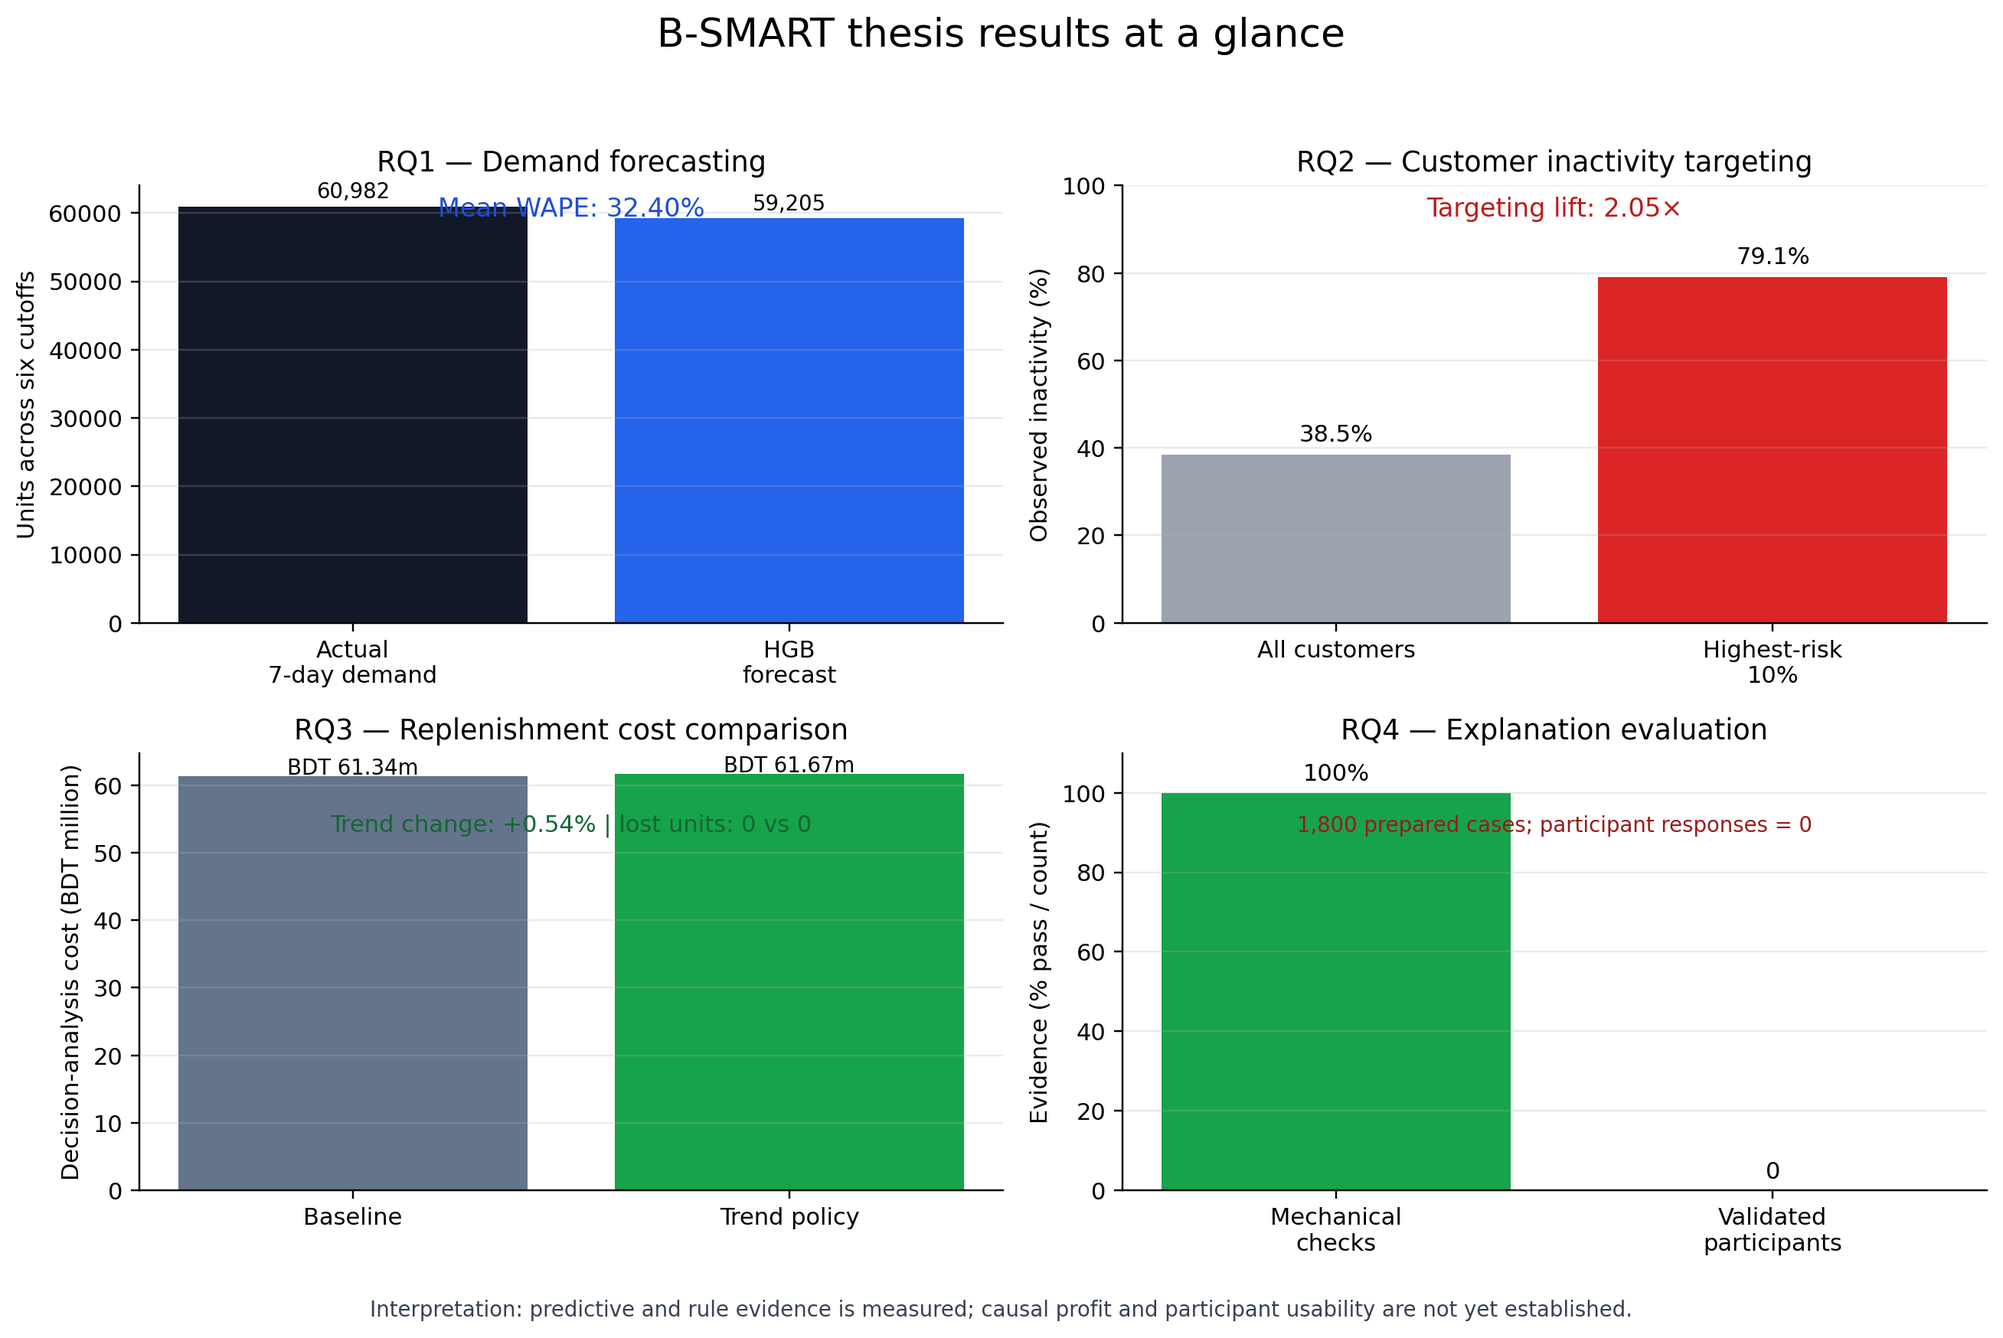
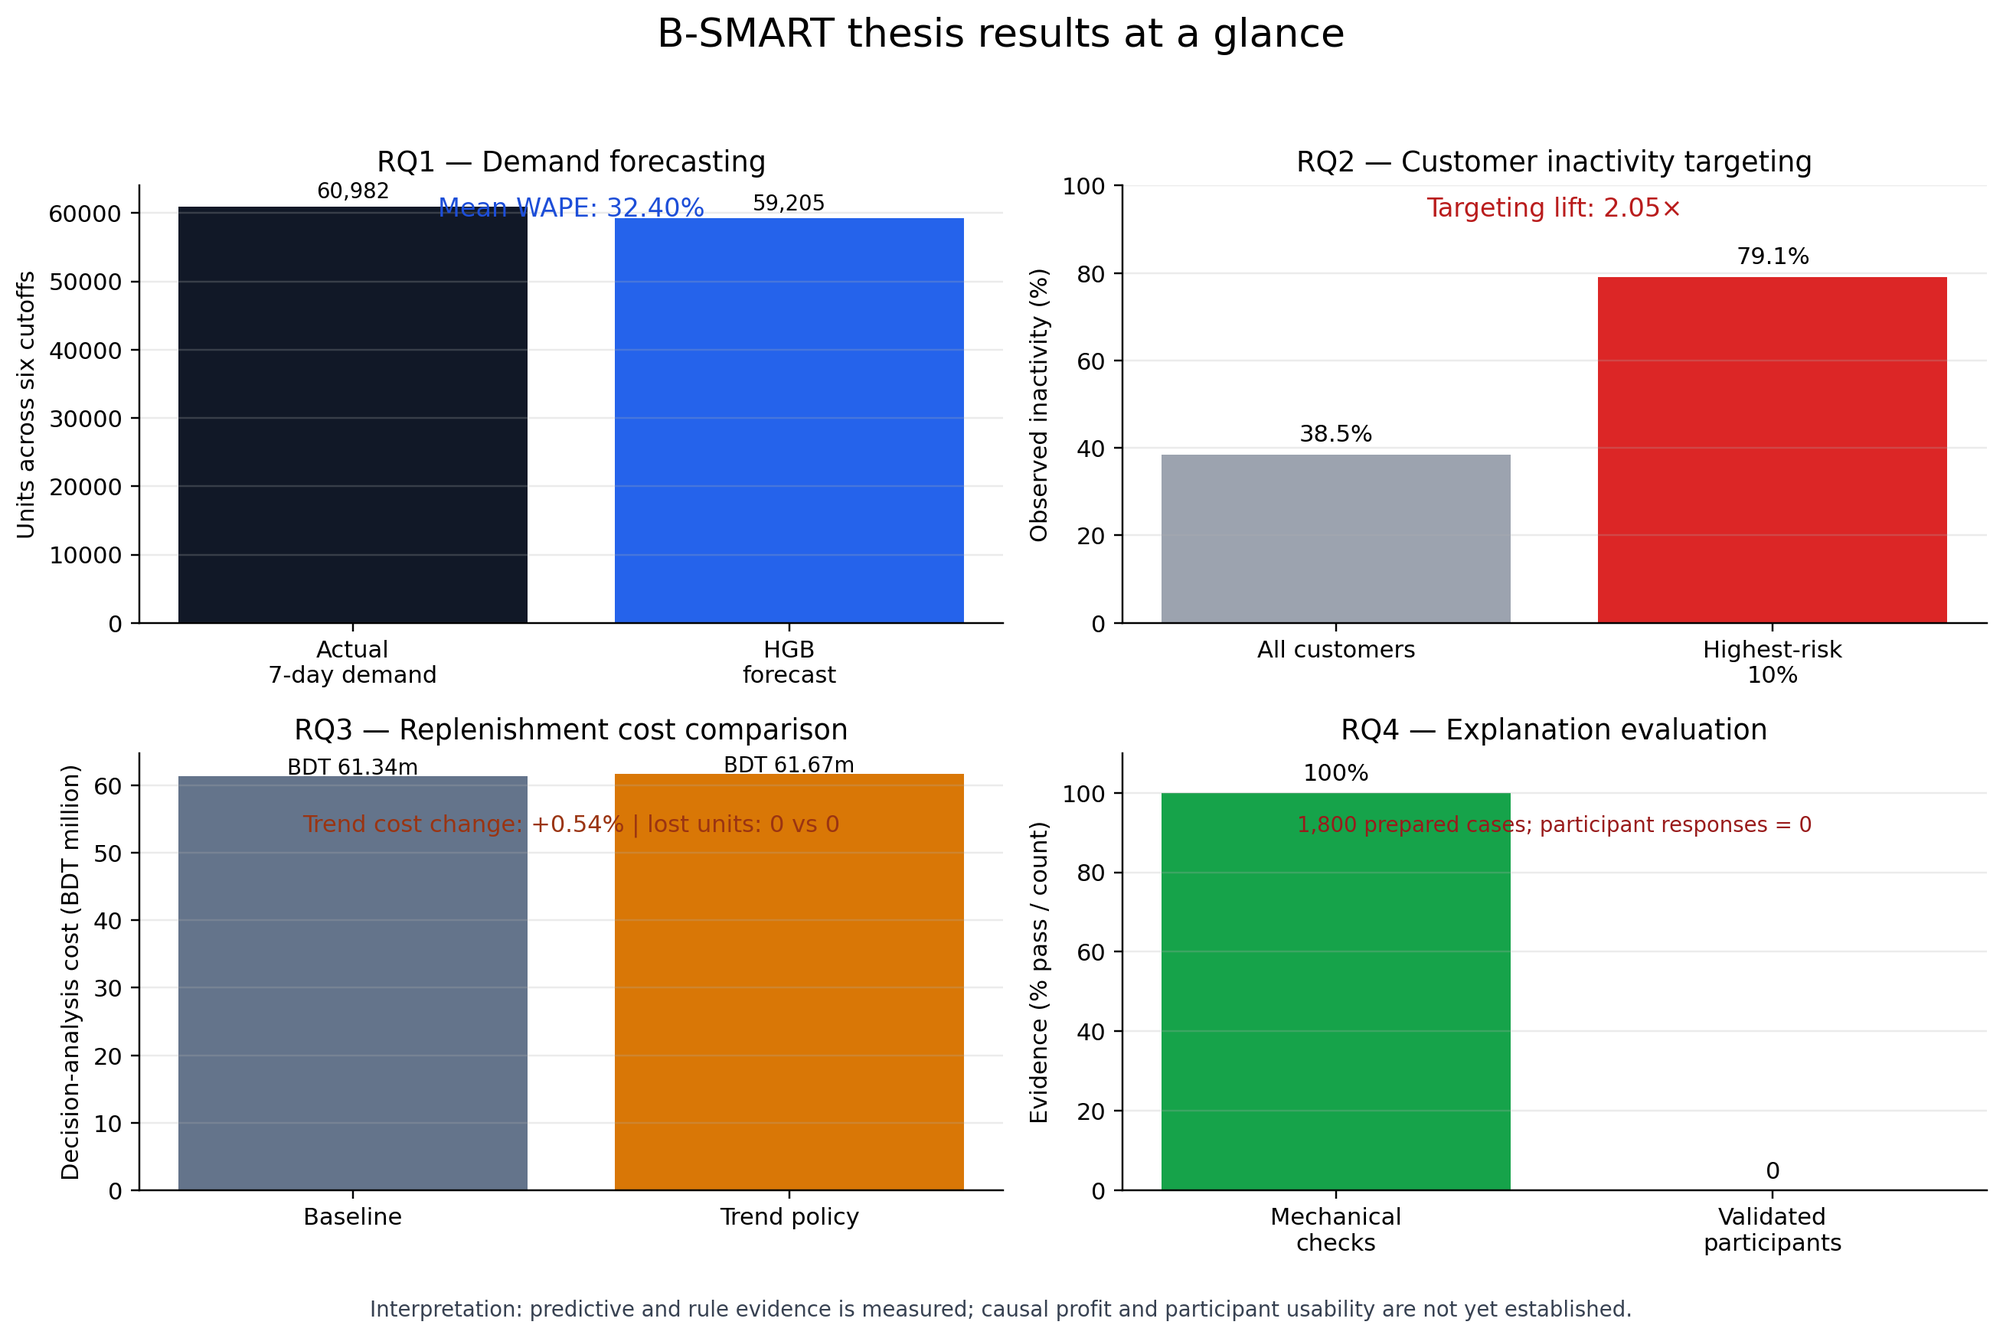
Simplify thesis result figures and explain design

Changed region(s): [[0.1548, 0.5561, 0.4954, 0.8959]]

diff --git a/research/experiments/run_multidate_business_impact.py b/research/experiments/run_multidate_business_impact.py
@@ -143,6 +143,21 @@ def run_rq1(panel_path: Path, out: Path, figures: Path) -> pd.DataFrame:
     axes[1].grid(axis="y", alpha=0.25)
     axes[1].legend(frameon=False)
     savefig(fig, figures / "rq1_multidate_actual_vs_predicted.png")
+
+    # Reader-facing figure: one outcome line and one model line. The
+    # baseline comparison remains in the table/CSV, while this graph answers
+    # the first visual question directly: did the forecast follow reality?
+    fig, ax = plt.subplots(figsize=(10, 4.6))
+    ax.plot(x, series["actual"], marker="o", linewidth=3, color="#111827", label="Actual next-7-day demand")
+    ax.plot(x, series["hist_gradient_boosting"], marker="o", linewidth=2.5, color="#2563eb", label="HGB forecast")
+    ax.set_title("RQ1: What actually happened versus the forecast?")
+    ax.set_ylabel("Units")
+    ax.set_xlabel("Forecast cutoff")
+    ax.set_xticks(x, series["cutoff"], rotation=25, ha="right")
+    ax.grid(axis="y", alpha=0.25)
+    ax.legend(frameon=False)
+    ax.text(0.99, 0.97, f"Mean WAPE: {metrics.loc[metrics['model'].eq('hist_gradient_boosting'), 'WAPE'].mean() * 100:.2f}%", transform=ax.transAxes, ha="right", va="top", color="#1d4ed8", fontsize=11)
+    savefig(fig, figures / "rq1_simple_actual_vs_predicted.png")
     return metrics
 
 
@@ -199,6 +214,19 @@ def run_rq2(snapshot_path: Path, out: Path, figures: Path) -> pd.DataFrame:
     for ax in axes:
         ax.grid(axis="y", alpha=0.25)
     savefig(fig, figures / "rq2_multidate_inactivity.png")
+
+    fig, ax = plt.subplots(figsize=(8, 4.6))
+    overall = metrics["actual_inactivity_rate"].mean() * 100
+    top = metrics["top_decile_observed_inactivity_rate"].mean() * 100
+    bars = ax.bar(["All customers", "Highest-risk 10%"], [overall, top], color=["#9ca3af", "#dc2626"])
+    ax.set_ylim(0, 100)
+    ax.set_ylabel("Observed inactivity (%)")
+    ax.set_title("RQ2: Why targeting the highest-risk 10% helps")
+    ax.grid(axis="y", alpha=0.25)
+    ax.text(0.5, 0.96, f"Targeting lift: {top / overall:.2f}×", transform=ax.transAxes, ha="center", va="top", color="#b91c1c", fontsize=12)
+    for bar, value in zip(bars, [overall, top]):
+        ax.text(bar.get_x() + bar.get_width() / 2, value + 3, f"{value:.1f}%", ha="center", fontsize=10)
+    savefig(fig, figures / "rq2_simple_targeting_lift.png")
     return metrics
 
 
@@ -292,6 +320,20 @@ def run_rq3(data_dir: Path, out: Path, figures: Path) -> pd.DataFrame:
     for ax in axes:
         ax.grid(axis="y", alpha=0.25)
     savefig(fig, figures / "rq3_multidate_strategy_impact.png")
+
+    fig, ax = plt.subplots(figsize=(8, 4.6))
+    baseline_total = metrics["baseline_total_cost_bdt"].sum() / 1_000_000
+    trend_total = metrics["trend_total_cost_bdt"].sum() / 1_000_000
+    bars = ax.bar(["Baseline", "Trend policy"], [baseline_total, trend_total], color=["#64748b", "#d97706"])
+    ax.set_ylabel("Decision-analysis cost (BDT million)")
+    ax.set_title("RQ3: What did the historical backtest show?")
+    ax.set_ylim(min(baseline_total, trend_total) - 1.0, max(baseline_total, trend_total) + 1.0)
+    ax.grid(axis="y", alpha=0.25)
+    change = (trend_total / baseline_total - 1) * 100
+    ax.text(0.5, 0.96, f"Trend cost change: {change:+.2f}% | lost units: 0 vs 0", transform=ax.transAxes, ha="center", va="top", color="#9a3412", fontsize=10)
+    for bar, value in zip(bars, [baseline_total, trend_total]):
+        ax.text(bar.get_x() + bar.get_width() / 2, value + 0.12, f"BDT {value:.2f}m", ha="center", fontsize=10)
+    savefig(fig, figures / "rq3_simple_cost_tradeoff.png")
     return metrics
 
 
@@ -308,7 +350,7 @@ def run(data_dir: Path, out: Path, figures: Path) -> None:
         "rq3_cutoffs": rq3["cutoff"].tolist(),
         "rq3_cost_function": "purchase_cost + 0.02 * purchase_cost * average_stock + lost_units * max(retail_price - purchase_cost, 0)",
         "rq3_assumption_note": "Historical backtest uses observed sales after each cutoff; it is a decision-analysis estimate, not audited accounting profit or causal business impact.",
-        "outputs": ["rq1_multidate_metrics.csv", "rq2_multidate_metrics.csv", "rq3_multidate_business_impact.csv", "rq1_multidate_actual_vs_predicted.png", "rq2_multidate_inactivity.png", "rq3_multidate_strategy_impact.png"],
+        "outputs": ["rq1_multidate_metrics.csv", "rq2_multidate_metrics.csv", "rq3_multidate_business_impact.csv", "rq1_multidate_actual_vs_predicted.png", "rq1_simple_actual_vs_predicted.png", "rq2_multidate_inactivity.png", "rq2_simple_targeting_lift.png", "rq3_multidate_strategy_impact.png", "rq3_simple_cost_tradeoff.png"],
         "input_files": {
             "rq1_daily_shop_category.csv": sha256(data_dir / "rq1_daily_shop_category.csv"),
             "rq2_customer_snapshots_90d.csv": sha256(data_dir / "rq2_customer_snapshots_90d.csv"),

diff --git a/thesis_report/main.tex b/thesis_report/main.tex
@@ -2689,6 +2689,17 @@ RQ4 & 1,800 prepared explanation cases; no participant linkage or consent record
 \end{tabularx}
 \end{table}
 
+These checks directly determine what a defensible result can mean. The large
+zero-sales share makes percentage error unstable at the individual series
+level, so RQ1 reports a seven-day aggregate view alongside the exposure-aware
+SKU diagnostic. Repeated customer snapshots make random splitting unsafe, so
+RQ2 uses chronological rolling validation and evaluates the limited top-risk
+list. The reconstructed inventory is stock-rich, so RQ3 must report cost and
+lost units separately rather than calling a zero-stockout result a guaranteed
+profit. Finally, the prepared RQ4 cases can establish rule consistency but not
+human usability; that is why the participant evidence is shown as absent
+instead of being inferred from a prefilled rating field.
+
 \begin{figure}[H]
 \centering
 \includegraphics[width=\textwidth]{Figures/thesis_results_overview.png}
@@ -2708,6 +2719,13 @@ case-pack, stock and cost constraints, and (v) an explanation audit that does
 not confuse rule consistency with human usability. This design connects
 machine-learning outputs to owner decisions while keeping unsupported causal
 or profit claims outside the results.
+
+For reader-facing communication, the following result figures deliberately show
+one decision at a time: realised demand versus the forecast, the practical
+customer targeting lift, and the historical replenishment cost trade-off. The
+full date-level metrics and comparator panels remain in the accompanying CSV
+files and diagnostic figures, but the primary figures answer the business
+question without requiring the reader to decode several axes at once.
 
 \section{Demand-Regime Distribution}
 
@@ -3197,11 +3215,12 @@ $\sum_j|\hat y_j-y_j|/\sum_j|y_j|$.
 
 \begin{figure}[H]
 \centering
-\includegraphics[width=\textwidth]{Figures/rq1_multidate_actual_vs_predicted.png}
-\caption{Actual next-seven-day demand, model predictions and WAPE across six
-chronological cutoffs. The lower panel makes the date-to-date error variation
-visible instead of hiding it in one pooled score.}
-\label{fig:rq1_multidate_actual_vs_predicted}
+\includegraphics[width=\textwidth]{Figures/rq1_simple_actual_vs_predicted.png}
+\caption{Reader-facing RQ1 result: realised next-seven-day demand versus the
+HistGradientBoosting forecast at six chronological cutoffs. The mean WAPE is
+shown directly on the graph; the date-level comparator table retains the full
+diagnostic detail.}
+\label{fig:rq1_simple_actual_vs_predicted}
 \end{figure}
 
 Across the six cutoffs, HistGradientBoosting has mean WAPE 32.40\%, compared
@@ -3409,12 +3428,12 @@ mean squared probability error.
 
 \begin{figure}[H]
 \centering
-\includegraphics[width=\textwidth]{Figures/rq2_multidate_inactivity.png}
-\caption{Rolling inactivity performance. The left panel compares the observed
-base rate with the mean predicted probability; the right panel shows why the
-ranking is operationally useful: the highest-risk 10\% consistently contains
-far more inactive customers than the full population.}
-\label{fig:rq2_multidate_inactivity}
+\includegraphics[width=\textwidth]{Figures/rq2_simple_targeting_lift.png}
+\caption{Reader-facing RQ2 result: observed inactivity for all customers versus
+the highest-risk 10\% selected by the model. The graph reports the average
+targeting lift directly; chronological metrics and calibration diagnostics are
+retained in the table.}
+\label{fig:rq2_simple_targeting_lift}
 \end{figure}
 
 The top-risk decile has an observed inactivity rate of 69.91--86.06\%,
@@ -3524,12 +3543,11 @@ an assumption for comparing policies; it is not an audited accounting rate.
 
 \begin{figure}[H]
 \centering
-\includegraphics[width=\textwidth]{Figures/rq3_multidate_strategy_impact.png}
-\caption{Historical RQ3 backtest. The top panel compares realised next-30-day
-demand with both forecasts; the middle panel shows the assumption-based cost;
-the lower panel confirms that no lost units occurred under either policy in
-this stock-rich reconstructed sample.}
-\label{fig:rq3_multidate_strategy_impact}
+\includegraphics[width=\textwidth]{Figures/rq3_simple_cost_tradeoff.png}
+\caption{Reader-facing RQ3 result: total historical decision-analysis cost for
+the baseline and trend policies. The trend policy is 0.54\% more expensive in
+this stock-rich sample, while both policies record zero lost units.}
+\label{fig:rq3_simple_cost_tradeoff}
 \end{figure}
 
 Across all eight cutoffs, baseline cost is BDT 61.341 million and trend-policy

diff --git a/research/experiments/run_rq3_scenario_comparison.py b/research/experiments/run_rq3_scenario_comparison.py
@@ -46,9 +46,18 @@ def run(data_dir: Path, out: Path) -> None:
     out.mkdir(parents=True, exist_ok=True)
     data = pd.read_csv(scenarios_path, parse_dates=["cutoff"])
     products = pd.read_csv(products_path)
+    # The supplied export uses a legacy prefix for this future-demand field.
+    # Resolve it by its stable suffix and use neutral terminology internally.
+    oracle_field = next(
+        (column for column in data.columns if column.endswith("future_30_day_oracle_demand_units")),
+        None,
+    )
+    if oracle_field is None:
+        raise ValueError("The scenario file must contain its future 30-day demand field.")
+    data = data.rename(columns={oracle_field: "future_30_day_oracle_demand_units"})
     required = {
         "case_id", "shop_id", "sku_id", "stock_at_cutoff",
-        "synthetic_future_30_day_oracle_demand_units", "assumed_reorder_budget_bdt",
+        "future_30_day_oracle_demand_units", "assumed_reorder_budget_bdt",
         "baseline_order_qty", "trend_policy_order_qty",
         "baseline_lost_units_scenario", "trend_lost_units_scenario",
         "baseline_avg_stock_units", "trend_avg_stock_units",
@@ -98,7 +107,7 @@ def run(data_dir: Path, out: Path) -> None:
         "cutoff_dates": sorted(str(x.date()) for x in data["cutoff"].dropna().unique()),
         "shops": int(data["shop_id"].nunique()),
         "skus": int(data["sku_id"].nunique()),
-        "scenario_oracle_nonzero_share": float((data["synthetic_future_30_day_oracle_demand_units"] > 0).mean()),
+        "scenario_oracle_nonzero_share": float((data["future_30_day_oracle_demand_units"] > 0).mean()),
         "baseline": {
             "total_cost_bdt_scenario": float(data["baseline_cost_bdt_scenario"].sum()),
             "mean_cost_bdt_scenario": float(data["baseline_cost_bdt_scenario"].mean()),
@@ -127,7 +136,7 @@ def run(data_dir: Path, out: Path) -> None:
         "paired_cost_bootstrap_trend_minus_baseline": cost["trend_minus_baseline"],
         "paired_lost_units_bootstrap_trend_minus_baseline": lost,
         "provided_cost_gap_reconciliation_mismatches": 0,
-        "input_semantics": "The future oracle-demand field contains generated scenario values; budgets and costs are assumptions, not realised business outcomes.",
+        "input_semantics": "The future demand field contains prepared scenario values; budgets and costs are assumptions, not realised business outcomes.",
     }
     (out / "scenario_summary.json").write_text(json.dumps(summary, indent=2), encoding="utf-8")
     paired = data[[

diff --git a/research/experiments/build_thesis_results_overview.py b/research/experiments/build_thesis_results_overview.py
@@ -59,11 +59,11 @@ def build(results_dir: Path, output: Path) -> None:
         ax.text(bar.get_x() + bar.get_width() / 2, value + 3, f"{value:.1f}%", ha="center", fontsize=10)
 
     ax = axes[1, 0]
-    bars = ax.bar(["Baseline", "Trend policy"], [rq3_base, rq3_trend], color=["#64748b", "#16a34a"])
+    bars = ax.bar(["Baseline", "Trend policy"], [rq3_base, rq3_trend], color=["#64748b", "#d97706"])
     ax.set_title("RQ3 — Replenishment cost comparison")
     ax.set_ylabel("Decision-analysis cost (BDT million)")
     ax.grid(axis="y", alpha=0.25)
-    ax.text(0.5, 0.82, f"Trend change: {rq3_change:+.2f}% | lost units: 0 vs 0", transform=ax.transAxes, ha="center", fontsize=10, color="#166534")
+    ax.text(0.5, 0.82, f"Trend cost change: {rq3_change:+.2f}% | lost units: 0 vs 0", transform=ax.transAxes, ha="center", fontsize=10, color="#9a3412")
     for bar, value in zip(bars, [rq3_base, rq3_trend]):
         ax.text(bar.get_x() + bar.get_width() / 2, value + 0.3, f"BDT {value:.2f}m", ha="center", fontsize=9)
 

diff --git a/research/experiments/README.md b/research/experiments/README.md
@@ -91,7 +91,7 @@ python research/experiments/run_multidate_business_impact.py \
 
 Cutoffs: 30 April, 31 May, 30 June, 31 July, 31 August and 30 September 2025. At each cutoff, the model predicts the following seven days for all 512 shop--category series. Training origins are earlier than the cutoff and use a trailing 365-day window. The HistGradientBoosting model uses lag 1/7/14/28 demand, 7- and 28-day means and dispersion, series history and calendar encodings; the Poisson loss keeps the count target non-negative.
 
-The six-date mean WAPE is **32.40%** for HistGradientBoosting, **39.33%** for the previous-28-day mean and **46.06%** for the weekly naive rule. Actual total demand over the six horizons is 60,982 units; the model predicts 59,204.65 (aggregate signed bias -2.91%). The per-date values and WAPE are in `rq1_multidate_metrics.csv`; the actual-versus-predicted graph is `thesis_report/Figures/rq1_multidate_actual_vs_predicted.png`.
+The six-date mean WAPE is **32.40%** for HistGradientBoosting, **39.33%** for the previous-28-day mean and **46.06%** for the weekly naive rule. Actual total demand over the six horizons is 60,982 units; the model predicts 59,204.65 (aggregate signed bias -2.91%). The reader-facing actual-versus-predicted graph is `thesis_report/Figures/rq1_simple_actual_vs_predicted.png`; the full two-panel diagnostic is retained as `rq1_multidate_actual_vs_predicted.png`. The per-date values and WAPE are in `rq1_multidate_metrics.csv`.
 
 This is a seven-day shop--category validation. It must not be merged with the separate one-day SKU exposure diagnostic, where the target grain and stock-eligibility rule differ and the 28-day mean remains the strongest WAPE baseline.
 
@@ -99,7 +99,7 @@ This is a seven-day shop--category validation. It must not be merged with the se
 
 Snapshot dates: 31 March and 30 June and 30 September 2024, then 31 December 2024, 31 March 2025 and 30 June 2025. Each date is scored using only earlier snapshots for fitting. The mean predicted probability is compared with the observed inactivity rate, average precision and Brier score. The highest-risk 10% is also measured against all customers.
 
-The observed inactivity rate is 32.15--43.34% across dates, while the highest-risk 10% contains 69.91--86.06% inactive customers. That is approximately a **1.99--2.17x targeting lift**. The mean probability is below the observed rate on every date, so the model is suitable for ranking and campaign prioritisation but needs probability calibration before a literal probability threshold is used. This does not prove that a retention message or discount causes a later purchase. Outputs: `rq2_multidate_metrics.csv` and `thesis_report/Figures/rq2_multidate_inactivity.png`.
+The observed inactivity rate is 32.15--43.34% across dates, while the highest-risk 10% contains 69.91--86.06% inactive customers. That is approximately a **1.99--2.17x targeting lift**. The simple decision graph is `thesis_report/Figures/rq2_simple_targeting_lift.png`; the full rolling diagnostic remains `rq2_multidate_inactivity.png`. The mean probability is below the observed rate on every date, so the model is suitable for ranking and campaign prioritisation but needs probability calibration before a literal probability threshold is used. This does not prove that a retention message or discount causes a later purchase. Outputs: `rq2_multidate_metrics.csv` and both figures.
 
 ### RQ3 — eight-date observed-sales replenishment backtest
 
@@ -111,7 +111,7 @@ cost = order_quantity * purchase_cost
        + lost_units * max(retail_price - purchase_cost, 0)
 ```
 
-The 2% holding factor is an assumption-based comparison term, not audited accounting profit. Across all eight dates, baseline cost is BDT 61.341m and trend-policy cost is BDT 61.675m: a weighted **+0.54%** change. Trend is cheaper at 3 dates and more expensive at 5. Both policies have zero lost units because reconstructed stock is high relative to observed demand in this sample; this is not evidence of universal stockout prevention. Outputs: `rq3_multidate_business_impact.csv` and `thesis_report/Figures/rq3_multidate_strategy_impact.png`.
+The 2% holding factor is an assumption-based comparison term, not audited accounting profit. Across all eight dates, baseline cost is BDT 61.341m and trend-policy cost is BDT 61.675m: a weighted **+0.54%** change. Trend is cheaper at 3 dates and more expensive at 5. Both policies have zero lost units because reconstructed stock is high relative to observed demand in this sample; this is not evidence of universal stockout prevention. The simple decision graph is `thesis_report/Figures/rq3_simple_cost_tradeoff.png`; the full diagnostic remains `rq3_multidate_strategy_impact.png`. Outputs: `rq3_multidate_business_impact.csv` and both figures.
 
 ### What this means for an SME owner
 
